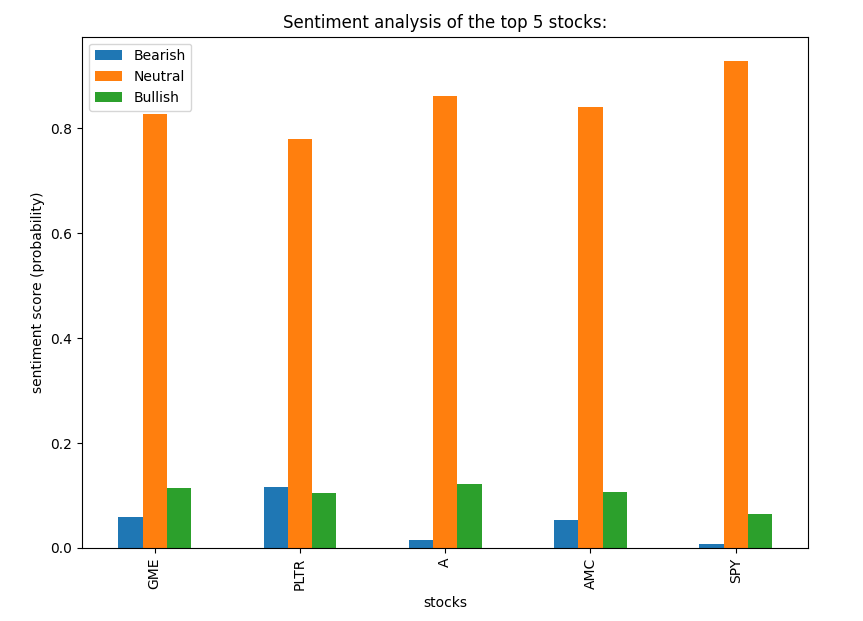
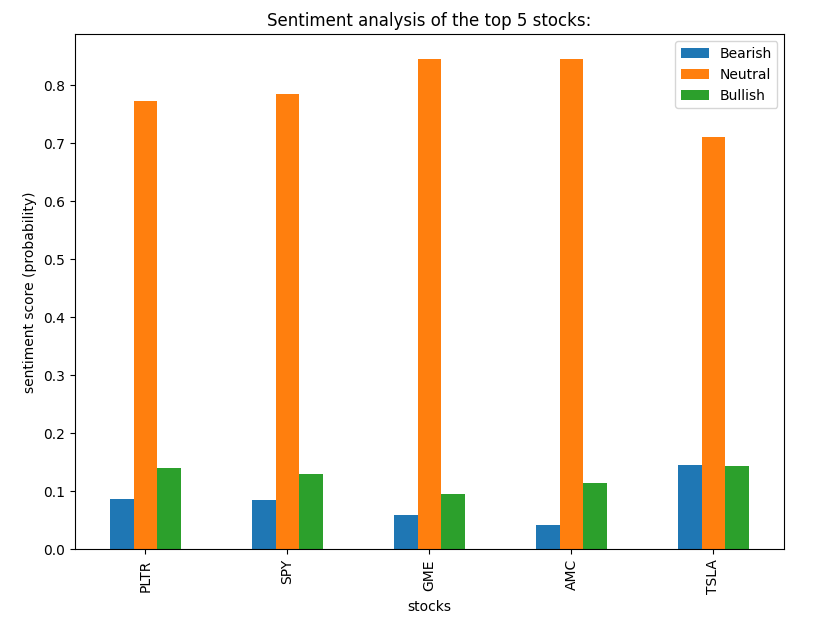
adjust words_to_ignore and limit of posts

diff --git a/SentimentAnalysis.py b/SentimentAnalysis.py
@@ -17,7 +17,7 @@ class SentimentAnalysisReddit:
         """
         Creates a SentimentAnalysisReddit object
         Note 1: the sentiment analysis is mainly oriented for r/wallstreetbets
-        Note 2: this class analyzes the top 10 hottest submissions of the subreddit
+        Note 2: this class analyzes the top 30 hottest submissions of the subreddit
         although other finance related subreddits can be used as well
         :param upvote_ratio: posted will be considered
         if its upvote ratio exceeds upvote_ratio
@@ -38,14 +38,14 @@ class SentimentAnalysisReddit:
     def count_ticker_frequency(self):
         """
         Helper function for sentiment_analysis
-        Scans through the top 10 hottest submissions of a subreddit
+        Scans through the top 30 hottest submissions of a subreddit
         For each submission, this parses the post's body and comments (top-level and 10 inner-comments)
         into words, counts the number of occurrences of a word being a ticker symbol (self.tickers),
         and stores the comment containing the occurrence in self.comment_of_words
         :return: None
         """
         # loop through the posts
-        for submission in self.subreddit.hot(limit=10):
+        for submission in self.subreddit.hot(limit=30):
 
             # loop through each word in the submission body
             submission_body = submission.selftext
@@ -69,6 +69,7 @@ class SentimentAnalysisReddit:
                     words = comment.body.split(" ")  # split into words
                     for word in words:
                         word = word.replace("$", "")
+                        word = word.replace("#", "")
                         # counting tickers
                         if word.isupper() and word in self.tickers and word not in words_to_ignore:
                             self.tickers[word] += 1
@@ -179,6 +180,6 @@ class SentimentAnalysisReddit:
 
 if __name__ == "__main__":
     wsb_sentiment_analysis = SentimentAnalysisReddit(0.7, 2, "wallstreetbets", ["Meme"], 5)
-    # wsb_sentiment_analysis.sentiment_analysis()
+    wsb_sentiment_analysis.sentiment_analysis()
     # wsb_sentiment_analysis.plot_frequency_of_tickers(10)
     # wsb_sentiment_analysis.plot_most_frequently_used_words(50)

diff --git a/data.py b/data.py
@@ -14,6 +14,9 @@ symbols = data_nasdaq["Symbol"].tolist() + data_nyse["Symbol"].tolist()
 
 # some stock symbols have the same name as some words
 words_to_ignore = [
+    "WSB",
+    "A",
+    "THE",
     "I",
     "FANG",
     "FUND",
